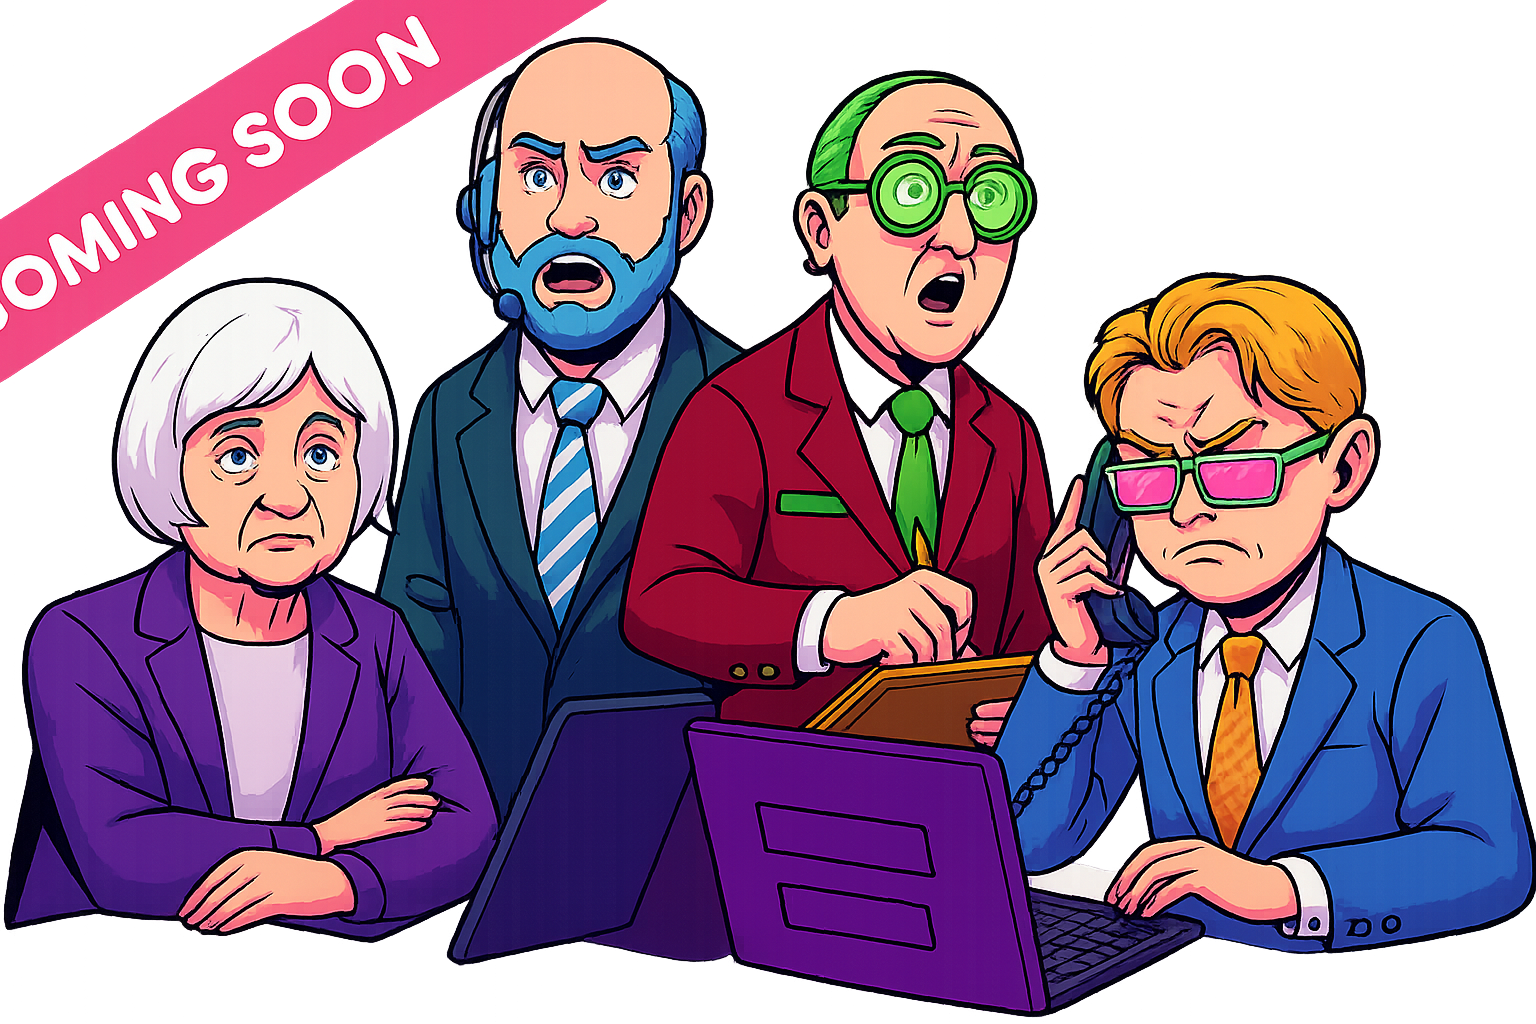
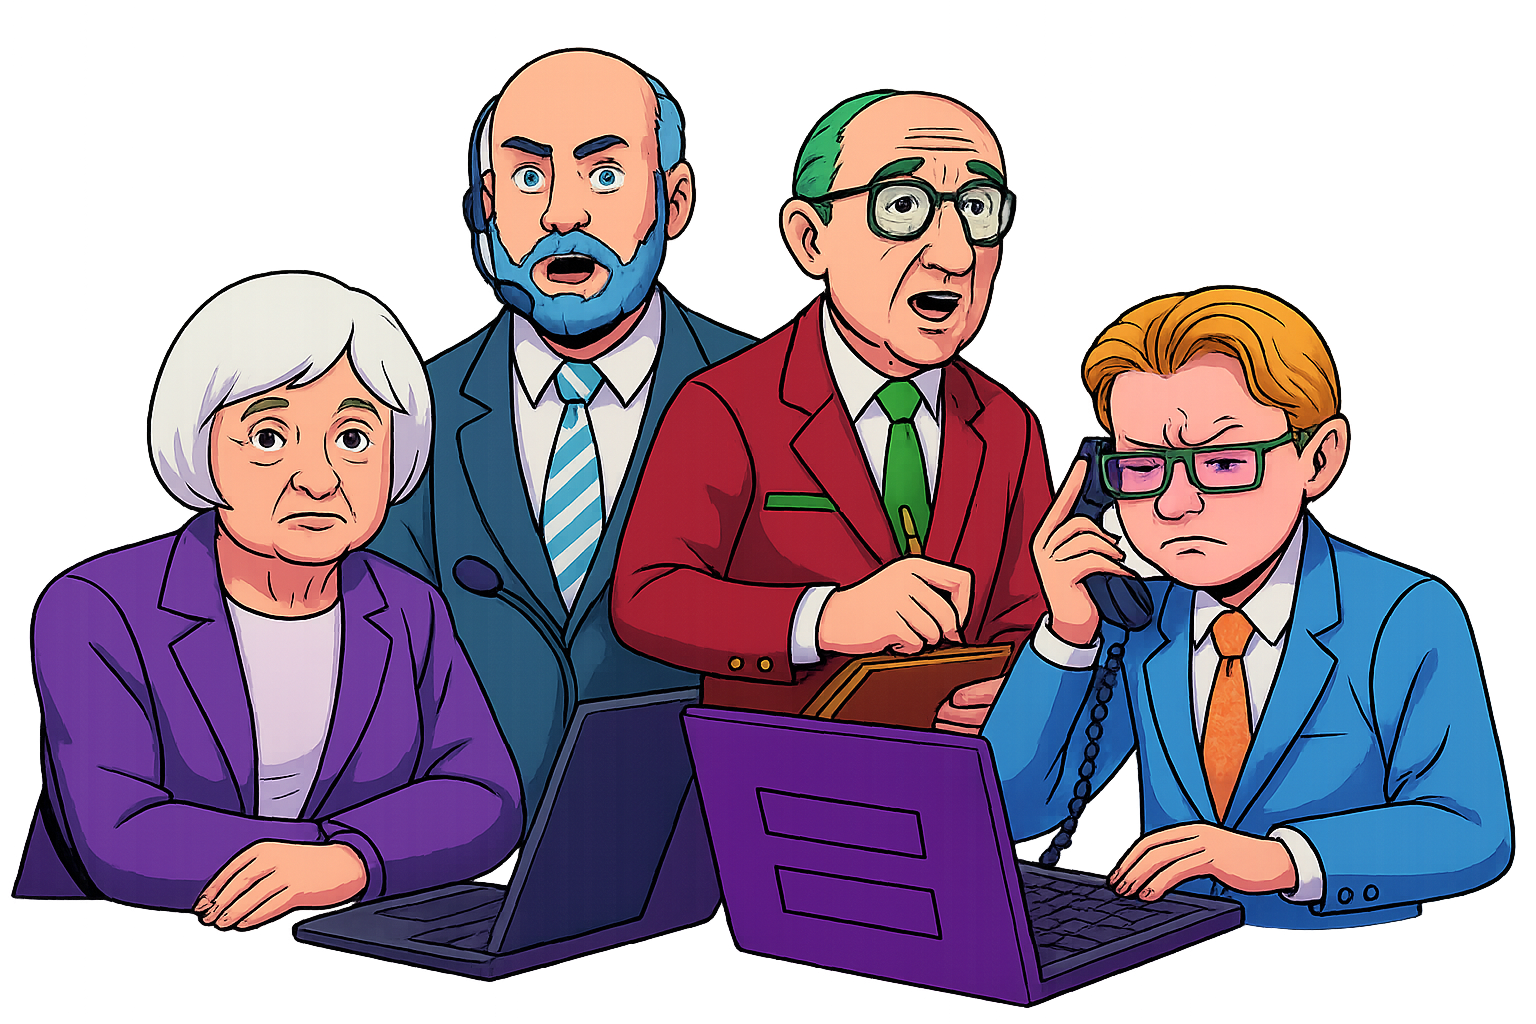
separate image

diff --git a/src/pages/fstocks.tsx b/src/pages/fstocks.tsx
@@ -124,14 +124,23 @@ const Home: NextPage = () => {
       {showForm && <JoinUsForm onClose={onClose} isOpen={showForm} />}
       <div className="bg-[#0A0012] relative">
         <Navbar />
-        <div className="relative overflow-hidden md:py-[100px] py-[50px] lg:py-[200px]">
+        <div className="relative overflow-hidden">
+          <div className="sm:block hidden absolute w-full md:top-40 top-20 -left-1/3 z-[8] rotate-[-45deg] text-center">
+            <div className="bg-pink-500 px-6 py-2 md:px-8 md:py-3 shadow-lg">
+              <span className="text-white font-bold text-2xl md:text-4xl uppercase">
+                Coming Soon
+              </span>
+            </div>
+          </div>
+          {/* Coming Soon Label */}
+
           <img
-            className="absolute top-0 w-full lg:h-auto h-full object-cover left-1/2 -translate-x-1/2 z-[2]"
-            src="/hero-banner.png"
+            className="absolute top-0 w-full lg:h-auto h-full object-cover left-1/2 -translate-x-1/2 z-[2] filter brightness-50"
+            src="/fstocks-wallpaper.png"
             alt="hero banner"
           />
 
-          <Container className="z-[6] relative">
+          <Container className="z-[9] relative">
             <section className="max-w-[1050px] mx-auto md:mt-[10px] mt-[56px]">
               <h1 className="text-primary md:leading-[72px] md:font-extrabold font-bold md:text-[60px] text-center mb-4 leading-[40px] text-[34px]">
                 FStocks by The Fedz
@@ -153,6 +162,13 @@ const Home: NextPage = () => {
                     Learn More
                   </PrimaryBtn>
                 </a>
+              </div>
+              <div className="flex items-center justify-center gap-10 mt-0">
+                <img
+                  src="./hero-banner.png"
+                  alt="hero banner"
+                  className="md:max-w-[750px] mx-auto max-w-[500px]"
+                />
               </div>
             </section>
           </Container>
